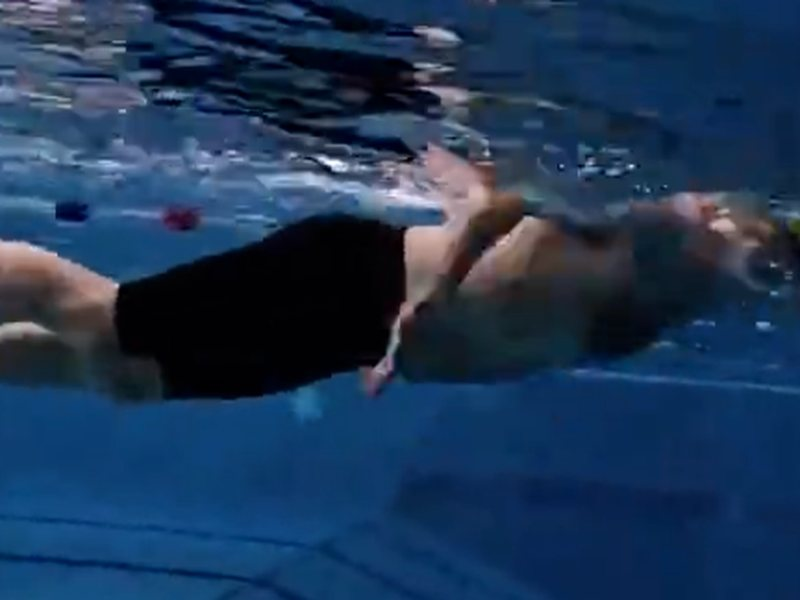
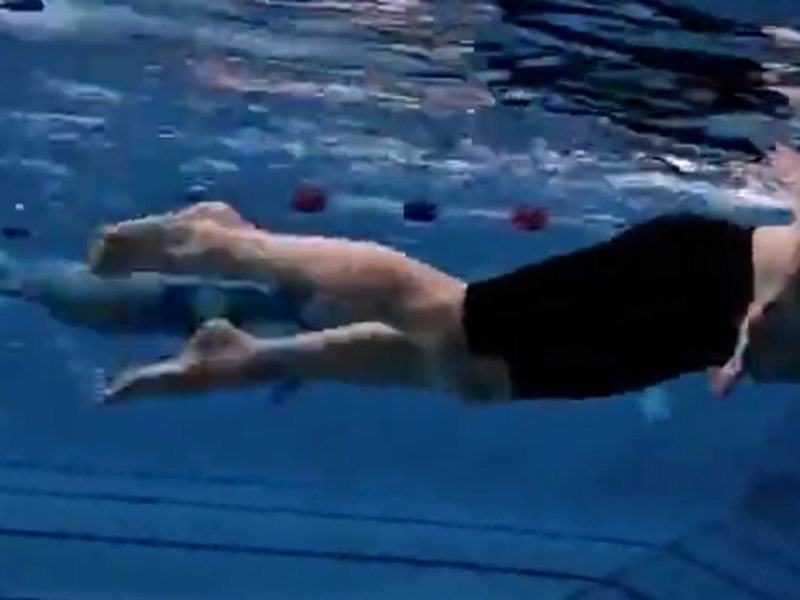
Stills: insteek boven water, beenslag op de benen (v2026.10.27-5)
Claude-Session: https://claude.ai/code/session_01QFLALgp6WLHdknopqTM9pi

diff --git a/index.html b/index.html
@@ -6,7 +6,7 @@
   <title>Ryan Triathlon Coaching – Triathlon-coaching in Rotterdam voor beginners</title>
   <meta name="description" content="Persoonlijke triathlon-coaching vanuit Rotterdam: zwemanalyse met onderwatervideo, trainingsschema&#x27;s en begeleiding naar je 1/8, 1/4, 1/2 of hele triathlon. Gratis kennismaking.">
   <meta name="theme-color" content="#F6FAF7">
-  <meta name="version" content="2026.10.27-4">
+  <meta name="version" content="2026.10.27-5">
   
   <link rel="canonical" href="https://ryantricoaching.nl/">
   <meta property="og:type" content="website">
@@ -25,10 +25,10 @@
   <link rel="preconnect" href="https://fonts.gstatic.com" crossorigin>
   <link href="https://fonts.googleapis.com/css2?family=Sora:wght@700&family=Inter:wght@400;500;600&display=swap" rel="stylesheet" media="print" onload="this.media='all'">
   <noscript><link href="https://fonts.googleapis.com/css2?family=Sora:wght@700&family=Inter:wght@400;500;600&display=swap" rel="stylesheet"></noscript>
-  <link rel="stylesheet" href="assets/css/base.css?v=2026.10.27-4">
-  <link rel="stylesheet" href="assets/css/site.css?v=2026.10.27-4">
+  <link rel="stylesheet" href="assets/css/base.css?v=2026.10.27-5">
+  <link rel="stylesheet" href="assets/css/site.css?v=2026.10.27-5">
   <script type="application/ld+json">{"@context": "https://schema.org", "@graph": [{"@type": "Person", "@id": "https://ryantricoaching.nl/#ryan", "name": "Ryan Douglas", "jobTitle": "Triathlon-coach", "url": "https://ryantricoaching.nl/", "address": {"@type": "PostalAddress", "addressLocality": "Rotterdam", "addressCountry": "NL"}, "memberOf": [{"@type": "SportsTeam", "name": "TVS'90"}, {"@type": "SportsTeam", "name": "CS010"}]}, {"@type": "LocalBusiness", "@id": "https://ryantricoaching.nl/#business", "name": "Ryan Triathlon Coaching", "url": "https://ryantricoaching.nl/", "image": "https://ryantricoaching.nl/assets/og.png", "logo": "https://ryantricoaching.nl/assets/logo/icon-512.png", "description": "Persoonlijke coaching voor beginners en gevorderden: zwemanalyse, trainingsschema's en begeleiding naar je 1/8, 1/4, 1/2 of hele triathlon. Door iemand die zelf vier hele triathlons finishte en het hele jaar buiten zwemt. Vanuit Rotterdam, met jou op de plek waar je traint.", "address": {"@type": "PostalAddress", "addressLocality": "Rotterdam", "addressRegion": "Zuid-Holland", "addressCountry": "NL"}, "areaServed": {"@type": "City", "name": "Rotterdam"}, "priceRange": "Op aanvraag", "founder": {"@id": "https://ryantricoaching.nl/#ryan"}, "makesOffer": [{"@type": "Offer", "itemOffered": {"@type": "Service", "name": "Zwemanalyse", "description": "Onderwateropname van je slag, analyse met ingesproken feedback die je frame voor frame terugkijkt. Je krijgt 3 tot 5 concrete verbeterpunten plus oefeningen."}}, {"@type": "Offer", "itemOffered": {"@type": "Service", "name": "Trainingsschema's fietsen en lopen", "description": "Een schema op maat voor je doel en je beschikbare tijd, in heldere taal, met tempo- en hartslaggrenzen die je zo op je Garmin zet."}}, {"@type": "Offer", "itemOffered": {"@type": "Service", "name": "Begeleiding naar je race", "description": "Van intake tot finish: 1/8, 1/4, 1/2 of hele triathlon. Wekelijks contact via WhatsApp, schema's voor alle drie de onderdelen, wisselzones en racedag."}}]}]}</script>
-  <script type="module" src="assets/js/site.js?v=2026.10.27-4"></script>
+  <script type="module" src="assets/js/site.js?v=2026.10.27-5"></script>
 </head>
 <body class="has-sticky" data-page="home">
   <a class="skip" href="#inhoud">Naar de inhoud</a>
@@ -193,7 +193,7 @@
       </div>
       <div class="footer-bottom">
         <span>© <span id="jaar">2026</span> Ryan Triathlon Coaching · Rotterdam<span id="footer-kvk" hidden> · KvK <span data-k="kvk"></span></span></span>
-        <span><a href="privacy.html">Privacy</a> · <a href="voorwaarden.html">Voorwaarden</a> · <a href="beheer.html" rel="nofollow">Beheer</a> · <span class="versie" id="versie" title="Versie van de website">v2026.10.27-4</span></span>
+        <span><a href="privacy.html">Privacy</a> · <a href="voorwaarden.html">Voorwaarden</a> · <a href="beheer.html" rel="nofollow">Beheer</a> · <span class="versie" id="versie" title="Versie van de website">v2026.10.27-5</span></span>
       </div>
     </div>
   </footer>

diff --git a/diensten.html b/diensten.html
@@ -6,7 +6,7 @@
   <title>Diensten – zwemanalyse, trainingsschema&#x27;s en racebegeleiding | Ryan Triathlon Coaching</title>
   <meta name="description" content="Zwemanalyse met onderwatervideo, trainingsschema&#x27;s voor fietsen en lopen, en complete begeleiding naar je triathlon. Prijzen op aanvraag.">
   <meta name="theme-color" content="#F6FAF7">
-  <meta name="version" content="2026.10.27-4">
+  <meta name="version" content="2026.10.27-5">
   
   <link rel="canonical" href="https://ryantricoaching.nl/diensten.html">
   <meta property="og:type" content="website">
@@ -25,10 +25,10 @@
   <link rel="preconnect" href="https://fonts.gstatic.com" crossorigin>
   <link href="https://fonts.googleapis.com/css2?family=Sora:wght@700&family=Inter:wght@400;500;600&display=swap" rel="stylesheet" media="print" onload="this.media='all'">
   <noscript><link href="https://fonts.googleapis.com/css2?family=Sora:wght@700&family=Inter:wght@400;500;600&display=swap" rel="stylesheet"></noscript>
-  <link rel="stylesheet" href="assets/css/base.css?v=2026.10.27-4">
-  <link rel="stylesheet" href="assets/css/site.css?v=2026.10.27-4">
+  <link rel="stylesheet" href="assets/css/base.css?v=2026.10.27-5">
+  <link rel="stylesheet" href="assets/css/site.css?v=2026.10.27-5">
   <script type="application/ld+json">{"@context": "https://schema.org", "@graph": [{"@type": "Person", "@id": "https://ryantricoaching.nl/#ryan", "name": "Ryan Douglas", "jobTitle": "Triathlon-coach", "url": "https://ryantricoaching.nl/", "address": {"@type": "PostalAddress", "addressLocality": "Rotterdam", "addressCountry": "NL"}, "memberOf": [{"@type": "SportsTeam", "name": "TVS'90"}, {"@type": "SportsTeam", "name": "CS010"}]}, {"@type": "LocalBusiness", "@id": "https://ryantricoaching.nl/#business", "name": "Ryan Triathlon Coaching", "url": "https://ryantricoaching.nl/", "image": "https://ryantricoaching.nl/assets/og.png", "logo": "https://ryantricoaching.nl/assets/logo/icon-512.png", "description": "Persoonlijke coaching voor beginners en gevorderden: zwemanalyse, trainingsschema's en begeleiding naar je 1/8, 1/4, 1/2 of hele triathlon. Door iemand die zelf vier hele triathlons finishte en het hele jaar buiten zwemt. Vanuit Rotterdam, met jou op de plek waar je traint.", "address": {"@type": "PostalAddress", "addressLocality": "Rotterdam", "addressRegion": "Zuid-Holland", "addressCountry": "NL"}, "areaServed": {"@type": "City", "name": "Rotterdam"}, "priceRange": "Op aanvraag", "founder": {"@id": "https://ryantricoaching.nl/#ryan"}, "makesOffer": [{"@type": "Offer", "itemOffered": {"@type": "Service", "name": "Zwemanalyse", "description": "Onderwateropname van je slag, analyse met ingesproken feedback die je frame voor frame terugkijkt. Je krijgt 3 tot 5 concrete verbeterpunten plus oefeningen."}}, {"@type": "Offer", "itemOffered": {"@type": "Service", "name": "Trainingsschema's fietsen en lopen", "description": "Een schema op maat voor je doel en je beschikbare tijd, in heldere taal, met tempo- en hartslaggrenzen die je zo op je Garmin zet."}}, {"@type": "Offer", "itemOffered": {"@type": "Service", "name": "Begeleiding naar je race", "description": "Van intake tot finish: 1/8, 1/4, 1/2 of hele triathlon. Wekelijks contact via WhatsApp, schema's voor alle drie de onderdelen, wisselzones en racedag."}}]}]}</script>
-  <script type="module" src="assets/js/site.js?v=2026.10.27-4"></script>
+  <script type="module" src="assets/js/site.js?v=2026.10.27-5"></script>
 </head>
 <body class="has-sticky" data-page="diensten">
   <a class="skip" href="#inhoud">Naar de inhoud</a>
@@ -125,7 +125,7 @@
       </div>
       <div class="footer-bottom">
         <span>© <span id="jaar">2026</span> Ryan Triathlon Coaching · Rotterdam<span id="footer-kvk" hidden> · KvK <span data-k="kvk"></span></span></span>
-        <span><a href="privacy.html">Privacy</a> · <a href="voorwaarden.html">Voorwaarden</a> · <a href="beheer.html" rel="nofollow">Beheer</a> · <span class="versie" id="versie" title="Versie van de website">v2026.10.27-4</span></span>
+        <span><a href="privacy.html">Privacy</a> · <a href="voorwaarden.html">Voorwaarden</a> · <a href="beheer.html" rel="nofollow">Beheer</a> · <span class="versie" id="versie" title="Versie van de website">v2026.10.27-5</span></span>
       </div>
     </div>
   </footer>

diff --git a/werkwijze.html b/werkwijze.html
@@ -6,7 +6,7 @@
   <title>Werkwijze – van kennismaking tot race | Ryan Triathlon Coaching</title>
   <meta name="description" content="Kennismaking, intake met je Strava- of Garmin-data, een plan voor de eerste vier weken en wekelijks contact via WhatsApp tot de race. Plus: wat ik van jou verwacht.">
   <meta name="theme-color" content="#F6FAF7">
-  <meta name="version" content="2026.10.27-4">
+  <meta name="version" content="2026.10.27-5">
   
   <link rel="canonical" href="https://ryantricoaching.nl/werkwijze.html">
   <meta property="og:type" content="website">
@@ -25,10 +25,10 @@
   <link rel="preconnect" href="https://fonts.gstatic.com" crossorigin>
   <link href="https://fonts.googleapis.com/css2?family=Sora:wght@700&family=Inter:wght@400;500;600&display=swap" rel="stylesheet" media="print" onload="this.media='all'">
   <noscript><link href="https://fonts.googleapis.com/css2?family=Sora:wght@700&family=Inter:wght@400;500;600&display=swap" rel="stylesheet"></noscript>
-  <link rel="stylesheet" href="assets/css/base.css?v=2026.10.27-4">
-  <link rel="stylesheet" href="assets/css/site.css?v=2026.10.27-4">
+  <link rel="stylesheet" href="assets/css/base.css?v=2026.10.27-5">
+  <link rel="stylesheet" href="assets/css/site.css?v=2026.10.27-5">
   <script type="application/ld+json">{"@context": "https://schema.org", "@graph": [{"@type": "Person", "@id": "https://ryantricoaching.nl/#ryan", "name": "Ryan Douglas", "jobTitle": "Triathlon-coach", "url": "https://ryantricoaching.nl/", "address": {"@type": "PostalAddress", "addressLocality": "Rotterdam", "addressCountry": "NL"}, "memberOf": [{"@type": "SportsTeam", "name": "TVS'90"}, {"@type": "SportsTeam", "name": "CS010"}]}, {"@type": "LocalBusiness", "@id": "https://ryantricoaching.nl/#business", "name": "Ryan Triathlon Coaching", "url": "https://ryantricoaching.nl/", "image": "https://ryantricoaching.nl/assets/og.png", "logo": "https://ryantricoaching.nl/assets/logo/icon-512.png", "description": "Persoonlijke coaching voor beginners en gevorderden: zwemanalyse, trainingsschema's en begeleiding naar je 1/8, 1/4, 1/2 of hele triathlon. Door iemand die zelf vier hele triathlons finishte en het hele jaar buiten zwemt. Vanuit Rotterdam, met jou op de plek waar je traint.", "address": {"@type": "PostalAddress", "addressLocality": "Rotterdam", "addressRegion": "Zuid-Holland", "addressCountry": "NL"}, "areaServed": {"@type": "City", "name": "Rotterdam"}, "priceRange": "Op aanvraag", "founder": {"@id": "https://ryantricoaching.nl/#ryan"}, "makesOffer": [{"@type": "Offer", "itemOffered": {"@type": "Service", "name": "Zwemanalyse", "description": "Onderwateropname van je slag, analyse met ingesproken feedback die je frame voor frame terugkijkt. Je krijgt 3 tot 5 concrete verbeterpunten plus oefeningen."}}, {"@type": "Offer", "itemOffered": {"@type": "Service", "name": "Trainingsschema's fietsen en lopen", "description": "Een schema op maat voor je doel en je beschikbare tijd, in heldere taal, met tempo- en hartslaggrenzen die je zo op je Garmin zet."}}, {"@type": "Offer", "itemOffered": {"@type": "Service", "name": "Begeleiding naar je race", "description": "Van intake tot finish: 1/8, 1/4, 1/2 of hele triathlon. Wekelijks contact via WhatsApp, schema's voor alle drie de onderdelen, wisselzones en racedag."}}]}]}</script>
-  <script type="module" src="assets/js/site.js?v=2026.10.27-4"></script>
+  <script type="module" src="assets/js/site.js?v=2026.10.27-5"></script>
 </head>
 <body class="has-sticky" data-page="werkwijze">
   <a class="skip" href="#inhoud">Naar de inhoud</a>
@@ -127,7 +127,7 @@
       </div>
       <div class="footer-bottom">
         <span>© <span id="jaar">2026</span> Ryan Triathlon Coaching · Rotterdam<span id="footer-kvk" hidden> · KvK <span data-k="kvk"></span></span></span>
-        <span><a href="privacy.html">Privacy</a> · <a href="voorwaarden.html">Voorwaarden</a> · <a href="beheer.html" rel="nofollow">Beheer</a> · <span class="versie" id="versie" title="Versie van de website">v2026.10.27-4</span></span>
+        <span><a href="privacy.html">Privacy</a> · <a href="voorwaarden.html">Voorwaarden</a> · <a href="beheer.html" rel="nofollow">Beheer</a> · <span class="versie" id="versie" title="Versie van de website">v2026.10.27-5</span></span>
       </div>
     </div>
   </footer>

diff --git a/contact.html b/contact.html
@@ -6,7 +6,7 @@
   <title>Contact – plan een gratis kennismaking | Ryan Triathlon Coaching</title>
   <meta name="description" content="Neem contact op met Ryan voor een gratis kennismaking van een half uur: via WhatsApp of het formulier. Triathlon-coaching vanuit Rotterdam.">
   <meta name="theme-color" content="#F6FAF7">
-  <meta name="version" content="2026.10.27-4">
+  <meta name="version" content="2026.10.27-5">
   
   <link rel="canonical" href="https://ryantricoaching.nl/contact.html">
   <meta property="og:type" content="website">
@@ -25,10 +25,10 @@
   <link rel="preconnect" href="https://fonts.gstatic.com" crossorigin>
   <link href="https://fonts.googleapis.com/css2?family=Sora:wght@700&family=Inter:wght@400;500;600&display=swap" rel="stylesheet" media="print" onload="this.media='all'">
   <noscript><link href="https://fonts.googleapis.com/css2?family=Sora:wght@700&family=Inter:wght@400;500;600&display=swap" rel="stylesheet"></noscript>
-  <link rel="stylesheet" href="assets/css/base.css?v=2026.10.27-4">
-  <link rel="stylesheet" href="assets/css/site.css?v=2026.10.27-4">
+  <link rel="stylesheet" href="assets/css/base.css?v=2026.10.27-5">
+  <link rel="stylesheet" href="assets/css/site.css?v=2026.10.27-5">
   <script type="application/ld+json">{"@context": "https://schema.org", "@graph": [{"@type": "Person", "@id": "https://ryantricoaching.nl/#ryan", "name": "Ryan Douglas", "jobTitle": "Triathlon-coach", "url": "https://ryantricoaching.nl/", "address": {"@type": "PostalAddress", "addressLocality": "Rotterdam", "addressCountry": "NL"}, "memberOf": [{"@type": "SportsTeam", "name": "TVS'90"}, {"@type": "SportsTeam", "name": "CS010"}]}, {"@type": "LocalBusiness", "@id": "https://ryantricoaching.nl/#business", "name": "Ryan Triathlon Coaching", "url": "https://ryantricoaching.nl/", "image": "https://ryantricoaching.nl/assets/og.png", "logo": "https://ryantricoaching.nl/assets/logo/icon-512.png", "description": "Persoonlijke coaching voor beginners en gevorderden: zwemanalyse, trainingsschema's en begeleiding naar je 1/8, 1/4, 1/2 of hele triathlon. Door iemand die zelf vier hele triathlons finishte en het hele jaar buiten zwemt. Vanuit Rotterdam, met jou op de plek waar je traint.", "address": {"@type": "PostalAddress", "addressLocality": "Rotterdam", "addressRegion": "Zuid-Holland", "addressCountry": "NL"}, "areaServed": {"@type": "City", "name": "Rotterdam"}, "priceRange": "Op aanvraag", "founder": {"@id": "https://ryantricoaching.nl/#ryan"}, "makesOffer": [{"@type": "Offer", "itemOffered": {"@type": "Service", "name": "Zwemanalyse", "description": "Onderwateropname van je slag, analyse met ingesproken feedback die je frame voor frame terugkijkt. Je krijgt 3 tot 5 concrete verbeterpunten plus oefeningen."}}, {"@type": "Offer", "itemOffered": {"@type": "Service", "name": "Trainingsschema's fietsen en lopen", "description": "Een schema op maat voor je doel en je beschikbare tijd, in heldere taal, met tempo- en hartslaggrenzen die je zo op je Garmin zet."}}, {"@type": "Offer", "itemOffered": {"@type": "Service", "name": "Begeleiding naar je race", "description": "Van intake tot finish: 1/8, 1/4, 1/2 of hele triathlon. Wekelijks contact via WhatsApp, schema's voor alle drie de onderdelen, wisselzones en racedag."}}]}]}</script>
-  <script type="module" src="assets/js/site.js?v=2026.10.27-4"></script>
+  <script type="module" src="assets/js/site.js?v=2026.10.27-5"></script>
 </head>
 <body class="has-sticky" data-page="contact">
   <a class="skip" href="#inhoud">Naar de inhoud</a>
@@ -152,7 +152,7 @@
       </div>
       <div class="footer-bottom">
         <span>© <span id="jaar">2026</span> Ryan Triathlon Coaching · Rotterdam<span id="footer-kvk" hidden> · KvK <span data-k="kvk"></span></span></span>
-        <span><a href="privacy.html">Privacy</a> · <a href="voorwaarden.html">Voorwaarden</a> · <a href="beheer.html" rel="nofollow">Beheer</a> · <span class="versie" id="versie" title="Versie van de website">v2026.10.27-4</span></span>
+        <span><a href="privacy.html">Privacy</a> · <a href="voorwaarden.html">Voorwaarden</a> · <a href="beheer.html" rel="nofollow">Beheer</a> · <span class="versie" id="versie" title="Versie van de website">v2026.10.27-5</span></span>
       </div>
     </div>
   </footer>

diff --git a/privacy.html b/privacy.html
@@ -6,7 +6,7 @@
   <title>Privacyverklaring | Ryan Triathlon Coaching</title>
   <meta name="description" content="Hoe Ryan Triathlon Coaching omgaat met je gegevens: alleen wat nodig is om contact te houden en je te coachen, geen cookies, geen doorverkoop.">
   <meta name="theme-color" content="#F6FAF7">
-  <meta name="version" content="2026.10.27-4">
+  <meta name="version" content="2026.10.27-5">
   
   <link rel="canonical" href="https://ryantricoaching.nl/privacy.html">
   <meta property="og:type" content="website">
@@ -25,10 +25,10 @@
   <link rel="preconnect" href="https://fonts.gstatic.com" crossorigin>
   <link href="https://fonts.googleapis.com/css2?family=Sora:wght@700&family=Inter:wght@400;500;600&display=swap" rel="stylesheet" media="print" onload="this.media='all'">
   <noscript><link href="https://fonts.googleapis.com/css2?family=Sora:wght@700&family=Inter:wght@400;500;600&display=swap" rel="stylesheet"></noscript>
-  <link rel="stylesheet" href="assets/css/base.css?v=2026.10.27-4">
-  <link rel="stylesheet" href="assets/css/site.css?v=2026.10.27-4">
+  <link rel="stylesheet" href="assets/css/base.css?v=2026.10.27-5">
+  <link rel="stylesheet" href="assets/css/site.css?v=2026.10.27-5">
   <script type="application/ld+json">{"@context": "https://schema.org", "@graph": [{"@type": "Person", "@id": "https://ryantricoaching.nl/#ryan", "name": "Ryan Douglas", "jobTitle": "Triathlon-coach", "url": "https://ryantricoaching.nl/", "address": {"@type": "PostalAddress", "addressLocality": "Rotterdam", "addressCountry": "NL"}, "memberOf": [{"@type": "SportsTeam", "name": "TVS'90"}, {"@type": "SportsTeam", "name": "CS010"}]}, {"@type": "LocalBusiness", "@id": "https://ryantricoaching.nl/#business", "name": "Ryan Triathlon Coaching", "url": "https://ryantricoaching.nl/", "image": "https://ryantricoaching.nl/assets/og.png", "logo": "https://ryantricoaching.nl/assets/logo/icon-512.png", "description": "Persoonlijke coaching voor beginners en gevorderden: zwemanalyse, trainingsschema's en begeleiding naar je 1/8, 1/4, 1/2 of hele triathlon. Door iemand die zelf vier hele triathlons finishte en het hele jaar buiten zwemt. Vanuit Rotterdam, met jou op de plek waar je traint.", "address": {"@type": "PostalAddress", "addressLocality": "Rotterdam", "addressRegion": "Zuid-Holland", "addressCountry": "NL"}, "areaServed": {"@type": "City", "name": "Rotterdam"}, "priceRange": "Op aanvraag", "founder": {"@id": "https://ryantricoaching.nl/#ryan"}, "makesOffer": [{"@type": "Offer", "itemOffered": {"@type": "Service", "name": "Zwemanalyse", "description": "Onderwateropname van je slag, analyse met ingesproken feedback die je frame voor frame terugkijkt. Je krijgt 3 tot 5 concrete verbeterpunten plus oefeningen."}}, {"@type": "Offer", "itemOffered": {"@type": "Service", "name": "Trainingsschema's fietsen en lopen", "description": "Een schema op maat voor je doel en je beschikbare tijd, in heldere taal, met tempo- en hartslaggrenzen die je zo op je Garmin zet."}}, {"@type": "Offer", "itemOffered": {"@type": "Service", "name": "Begeleiding naar je race", "description": "Van intake tot finish: 1/8, 1/4, 1/2 of hele triathlon. Wekelijks contact via WhatsApp, schema's voor alle drie de onderdelen, wisselzones en racedag."}}]}]}</script>
-  <script type="module" src="assets/js/site.js?v=2026.10.27-4"></script>
+  <script type="module" src="assets/js/site.js?v=2026.10.27-5"></script>
 </head>
 <body class="has-sticky" data-page="privacy">
   <a class="skip" href="#inhoud">Naar de inhoud</a>
@@ -108,7 +108,7 @@
       </div>
       <div class="footer-bottom">
         <span>© <span id="jaar">2026</span> Ryan Triathlon Coaching · Rotterdam<span id="footer-kvk" hidden> · KvK <span data-k="kvk"></span></span></span>
-        <span><a href="privacy.html">Privacy</a> · <a href="voorwaarden.html">Voorwaarden</a> · <a href="beheer.html" rel="nofollow">Beheer</a> · <span class="versie" id="versie" title="Versie van de website">v2026.10.27-4</span></span>
+        <span><a href="privacy.html">Privacy</a> · <a href="voorwaarden.html">Voorwaarden</a> · <a href="beheer.html" rel="nofollow">Beheer</a> · <span class="versie" id="versie" title="Versie van de website">v2026.10.27-5</span></span>
       </div>
     </div>
   </footer>

diff --git a/ervaringen.html b/ervaringen.html
@@ -6,7 +6,7 @@
   <title>Ervaringen van atleten | Ryan Triathlon Coaching</title>
   <meta name="description" content="Wat atleten zeggen over de coaching van Ryan Douglas: zwemanalyse, trainingsschema&#x27;s en begeleiding naar hun triathlon.">
   <meta name="theme-color" content="#F6FAF7">
-  <meta name="version" content="2026.10.27-4">
+  <meta name="version" content="2026.10.27-5">
   
   <link rel="canonical" href="https://ryantricoaching.nl/ervaringen.html">
   <meta property="og:type" content="website">
@@ -25,10 +25,10 @@
   <link rel="preconnect" href="https://fonts.gstatic.com" crossorigin>
   <link href="https://fonts.googleapis.com/css2?family=Sora:wght@700&family=Inter:wght@400;500;600&display=swap" rel="stylesheet" media="print" onload="this.media='all'">
   <noscript><link href="https://fonts.googleapis.com/css2?family=Sora:wght@700&family=Inter:wght@400;500;600&display=swap" rel="stylesheet"></noscript>
-  <link rel="stylesheet" href="assets/css/base.css?v=2026.10.27-4">
-  <link rel="stylesheet" href="assets/css/site.css?v=2026.10.27-4">
+  <link rel="stylesheet" href="assets/css/base.css?v=2026.10.27-5">
+  <link rel="stylesheet" href="assets/css/site.css?v=2026.10.27-5">
   <script type="application/ld+json">{"@context": "https://schema.org", "@graph": [{"@type": "Person", "@id": "https://ryantricoaching.nl/#ryan", "name": "Ryan Douglas", "jobTitle": "Triathlon-coach", "url": "https://ryantricoaching.nl/", "address": {"@type": "PostalAddress", "addressLocality": "Rotterdam", "addressCountry": "NL"}, "memberOf": [{"@type": "SportsTeam", "name": "TVS'90"}, {"@type": "SportsTeam", "name": "CS010"}]}, {"@type": "LocalBusiness", "@id": "https://ryantricoaching.nl/#business", "name": "Ryan Triathlon Coaching", "url": "https://ryantricoaching.nl/", "image": "https://ryantricoaching.nl/assets/og.png", "logo": "https://ryantricoaching.nl/assets/logo/icon-512.png", "description": "Persoonlijke coaching voor beginners en gevorderden: zwemanalyse, trainingsschema's en begeleiding naar je 1/8, 1/4, 1/2 of hele triathlon. Door iemand die zelf vier hele triathlons finishte en het hele jaar buiten zwemt. Vanuit Rotterdam, met jou op de plek waar je traint.", "address": {"@type": "PostalAddress", "addressLocality": "Rotterdam", "addressRegion": "Zuid-Holland", "addressCountry": "NL"}, "areaServed": {"@type": "City", "name": "Rotterdam"}, "priceRange": "Op aanvraag", "founder": {"@id": "https://ryantricoaching.nl/#ryan"}, "makesOffer": [{"@type": "Offer", "itemOffered": {"@type": "Service", "name": "Zwemanalyse", "description": "Onderwateropname van je slag, analyse met ingesproken feedback die je frame voor frame terugkijkt. Je krijgt 3 tot 5 concrete verbeterpunten plus oefeningen."}}, {"@type": "Offer", "itemOffered": {"@type": "Service", "name": "Trainingsschema's fietsen en lopen", "description": "Een schema op maat voor je doel en je beschikbare tijd, in heldere taal, met tempo- en hartslaggrenzen die je zo op je Garmin zet."}}, {"@type": "Offer", "itemOffered": {"@type": "Service", "name": "Begeleiding naar je race", "description": "Van intake tot finish: 1/8, 1/4, 1/2 of hele triathlon. Wekelijks contact via WhatsApp, schema's voor alle drie de onderdelen, wisselzones en racedag."}}]}]}</script>
-  <script type="module" src="assets/js/site.js?v=2026.10.27-4"></script>
+  <script type="module" src="assets/js/site.js?v=2026.10.27-5"></script>
 </head>
 <body class="has-sticky" data-page="ervaringen">
   <a class="skip" href="#inhoud">Naar de inhoud</a>
@@ -110,7 +110,7 @@
       </div>
       <div class="footer-bottom">
         <span>© <span id="jaar">2026</span> Ryan Triathlon Coaching · Rotterdam<span id="footer-kvk" hidden> · KvK <span data-k="kvk"></span></span></span>
-        <span><a href="privacy.html">Privacy</a> · <a href="voorwaarden.html">Voorwaarden</a> · <a href="beheer.html" rel="nofollow">Beheer</a> · <span class="versie" id="versie" title="Versie van de website">v2026.10.27-4</span></span>
+        <span><a href="privacy.html">Privacy</a> · <a href="voorwaarden.html">Voorwaarden</a> · <a href="beheer.html" rel="nofollow">Beheer</a> · <span class="versie" id="versie" title="Versie van de website">v2026.10.27-5</span></span>
       </div>
     </div>
   </footer>

diff --git a/voorwaarden.html b/voorwaarden.html
@@ -6,7 +6,7 @@
   <title>Voorwaarden | Ryan Triathlon Coaching</title>
   <meta name="description" content="De afspraken bij coaching door Ryan Triathlon Coaching: eigen verantwoordelijkheid, opzeggen, betaling en aansprakelijkheid.">
   <meta name="theme-color" content="#F6FAF7">
-  <meta name="version" content="2026.10.27-4">
+  <meta name="version" content="2026.10.27-5">
   
   <link rel="canonical" href="https://ryantricoaching.nl/voorwaarden.html">
   <meta property="og:type" content="website">
@@ -25,10 +25,10 @@
   <link rel="preconnect" href="https://fonts.gstatic.com" crossorigin>
   <link href="https://fonts.googleapis.com/css2?family=Sora:wght@700&family=Inter:wght@400;500;600&display=swap" rel="stylesheet" media="print" onload="this.media='all'">
   <noscript><link href="https://fonts.googleapis.com/css2?family=Sora:wght@700&family=Inter:wght@400;500;600&display=swap" rel="stylesheet"></noscript>
-  <link rel="stylesheet" href="assets/css/base.css?v=2026.10.27-4">
-  <link rel="stylesheet" href="assets/css/site.css?v=2026.10.27-4">
+  <link rel="stylesheet" href="assets/css/base.css?v=2026.10.27-5">
+  <link rel="stylesheet" href="assets/css/site.css?v=2026.10.27-5">
   <script type="application/ld+json">{"@context": "https://schema.org", "@graph": [{"@type": "Person", "@id": "https://ryantricoaching.nl/#ryan", "name": "Ryan Douglas", "jobTitle": "Triathlon-coach", "url": "https://ryantricoaching.nl/", "address": {"@type": "PostalAddress", "addressLocality": "Rotterdam", "addressCountry": "NL"}, "memberOf": [{"@type": "SportsTeam", "name": "TVS'90"}, {"@type": "SportsTeam", "name": "CS010"}]}, {"@type": "LocalBusiness", "@id": "https://ryantricoaching.nl/#business", "name": "Ryan Triathlon Coaching", "url": "https://ryantricoaching.nl/", "image": "https://ryantricoaching.nl/assets/og.png", "logo": "https://ryantricoaching.nl/assets/logo/icon-512.png", "description": "Persoonlijke coaching voor beginners en gevorderden: zwemanalyse, trainingsschema's en begeleiding naar je 1/8, 1/4, 1/2 of hele triathlon. Door iemand die zelf vier hele triathlons finishte en het hele jaar buiten zwemt. Vanuit Rotterdam, met jou op de plek waar je traint.", "address": {"@type": "PostalAddress", "addressLocality": "Rotterdam", "addressRegion": "Zuid-Holland", "addressCountry": "NL"}, "areaServed": {"@type": "City", "name": "Rotterdam"}, "priceRange": "Op aanvraag", "founder": {"@id": "https://ryantricoaching.nl/#ryan"}, "makesOffer": [{"@type": "Offer", "itemOffered": {"@type": "Service", "name": "Zwemanalyse", "description": "Onderwateropname van je slag, analyse met ingesproken feedback die je frame voor frame terugkijkt. Je krijgt 3 tot 5 concrete verbeterpunten plus oefeningen."}}, {"@type": "Offer", "itemOffered": {"@type": "Service", "name": "Trainingsschema's fietsen en lopen", "description": "Een schema op maat voor je doel en je beschikbare tijd, in heldere taal, met tempo- en hartslaggrenzen die je zo op je Garmin zet."}}, {"@type": "Offer", "itemOffered": {"@type": "Service", "name": "Begeleiding naar je race", "description": "Van intake tot finish: 1/8, 1/4, 1/2 of hele triathlon. Wekelijks contact via WhatsApp, schema's voor alle drie de onderdelen, wisselzones en racedag."}}]}]}</script>
-  <script type="module" src="assets/js/site.js?v=2026.10.27-4"></script>
+  <script type="module" src="assets/js/site.js?v=2026.10.27-5"></script>
 </head>
 <body class="has-sticky" data-page="voorwaarden">
   <a class="skip" href="#inhoud">Naar de inhoud</a>
@@ -108,7 +108,7 @@
       </div>
       <div class="footer-bottom">
         <span>© <span id="jaar">2026</span> Ryan Triathlon Coaching · Rotterdam<span id="footer-kvk" hidden> · KvK <span data-k="kvk"></span></span></span>
-        <span><a href="privacy.html">Privacy</a> · <a href="voorwaarden.html">Voorwaarden</a> · <a href="beheer.html" rel="nofollow">Beheer</a> · <span class="versie" id="versie" title="Versie van de website">v2026.10.27-4</span></span>
+        <span><a href="privacy.html">Privacy</a> · <a href="voorwaarden.html">Voorwaarden</a> · <a href="beheer.html" rel="nofollow">Beheer</a> · <span class="versie" id="versie" title="Versie van de website">v2026.10.27-5</span></span>
       </div>
     </div>
   </footer>

diff --git a/bedankt.html b/bedankt.html
@@ -6,7 +6,7 @@
   <title>Bedankt voor je bericht | Ryan Triathlon Coaching</title>
   <meta name="description" content="Je bericht is verstuurd. Ryan neemt binnen een dag contact met je op.">
   <meta name="theme-color" content="#F6FAF7">
-  <meta name="version" content="2026.10.27-4">
+  <meta name="version" content="2026.10.27-5">
   <meta name="robots" content="noindex, nofollow">
   <link rel="canonical" href="https://ryantricoaching.nl/bedankt.html">
   <meta property="og:type" content="website">
@@ -25,10 +25,10 @@
   <link rel="preconnect" href="https://fonts.gstatic.com" crossorigin>
   <link href="https://fonts.googleapis.com/css2?family=Sora:wght@700&family=Inter:wght@400;500;600&display=swap" rel="stylesheet" media="print" onload="this.media='all'">
   <noscript><link href="https://fonts.googleapis.com/css2?family=Sora:wght@700&family=Inter:wght@400;500;600&display=swap" rel="stylesheet"></noscript>
-  <link rel="stylesheet" href="assets/css/base.css?v=2026.10.27-4">
-  <link rel="stylesheet" href="assets/css/site.css?v=2026.10.27-4">
+  <link rel="stylesheet" href="assets/css/base.css?v=2026.10.27-5">
+  <link rel="stylesheet" href="assets/css/site.css?v=2026.10.27-5">
   <script type="application/ld+json">{"@context": "https://schema.org", "@graph": [{"@type": "Person", "@id": "https://ryantricoaching.nl/#ryan", "name": "Ryan Douglas", "jobTitle": "Triathlon-coach", "url": "https://ryantricoaching.nl/", "address": {"@type": "PostalAddress", "addressLocality": "Rotterdam", "addressCountry": "NL"}, "memberOf": [{"@type": "SportsTeam", "name": "TVS'90"}, {"@type": "SportsTeam", "name": "CS010"}]}, {"@type": "LocalBusiness", "@id": "https://ryantricoaching.nl/#business", "name": "Ryan Triathlon Coaching", "url": "https://ryantricoaching.nl/", "image": "https://ryantricoaching.nl/assets/og.png", "logo": "https://ryantricoaching.nl/assets/logo/icon-512.png", "description": "Persoonlijke coaching voor beginners en gevorderden: zwemanalyse, trainingsschema's en begeleiding naar je 1/8, 1/4, 1/2 of hele triathlon. Door iemand die zelf vier hele triathlons finishte en het hele jaar buiten zwemt. Vanuit Rotterdam, met jou op de plek waar je traint.", "address": {"@type": "PostalAddress", "addressLocality": "Rotterdam", "addressRegion": "Zuid-Holland", "addressCountry": "NL"}, "areaServed": {"@type": "City", "name": "Rotterdam"}, "priceRange": "Op aanvraag", "founder": {"@id": "https://ryantricoaching.nl/#ryan"}, "makesOffer": [{"@type": "Offer", "itemOffered": {"@type": "Service", "name": "Zwemanalyse", "description": "Onderwateropname van je slag, analyse met ingesproken feedback die je frame voor frame terugkijkt. Je krijgt 3 tot 5 concrete verbeterpunten plus oefeningen."}}, {"@type": "Offer", "itemOffered": {"@type": "Service", "name": "Trainingsschema's fietsen en lopen", "description": "Een schema op maat voor je doel en je beschikbare tijd, in heldere taal, met tempo- en hartslaggrenzen die je zo op je Garmin zet."}}, {"@type": "Offer", "itemOffered": {"@type": "Service", "name": "Begeleiding naar je race", "description": "Van intake tot finish: 1/8, 1/4, 1/2 of hele triathlon. Wekelijks contact via WhatsApp, schema's voor alle drie de onderdelen, wisselzones en racedag."}}]}]}</script>
-  <script type="module" src="assets/js/site.js?v=2026.10.27-4"></script>
+  <script type="module" src="assets/js/site.js?v=2026.10.27-5"></script>
 </head>
 <body class="has-sticky" data-page="bedankt">
   <a class="skip" href="#inhoud">Naar de inhoud</a>
@@ -93,7 +93,7 @@
       </div>
       <div class="footer-bottom">
         <span>© <span id="jaar">2026</span> Ryan Triathlon Coaching · Rotterdam<span id="footer-kvk" hidden> · KvK <span data-k="kvk"></span></span></span>
-        <span><a href="privacy.html">Privacy</a> · <a href="voorwaarden.html">Voorwaarden</a> · <a href="beheer.html" rel="nofollow">Beheer</a> · <span class="versie" id="versie" title="Versie van de website">v2026.10.27-4</span></span>
+        <span><a href="privacy.html">Privacy</a> · <a href="voorwaarden.html">Voorwaarden</a> · <a href="beheer.html" rel="nofollow">Beheer</a> · <span class="versie" id="versie" title="Versie van de website">v2026.10.27-5</span></span>
       </div>
     </div>
   </footer>

diff --git a/race.html b/race.html
@@ -6,7 +6,7 @@
   <title>Begeleiding naar je triathlon: 1/8, 1/4, 1/2 of hele | Ryan Triathlon Coaching</title>
   <meta name="description" content="Complete begeleiding naar je triathlon vanuit Rotterdam: intake, trainingsplan voor zwemmen, fietsen en lopen, wekelijks contact via WhatsApp en een raceplan. Voorbeeldtijdlijn van 12 tot 20 weken.">
   <meta name="theme-color" content="#F6FAF7">
-  <meta name="version" content="2026.10.27-4">
+  <meta name="version" content="2026.10.27-5">
   
   <link rel="canonical" href="https://ryantricoaching.nl/race.html">
   <meta property="og:type" content="website">
@@ -25,10 +25,10 @@
   <link rel="preconnect" href="https://fonts.gstatic.com" crossorigin>
   <link href="https://fonts.googleapis.com/css2?family=Sora:wght@700&family=Inter:wght@400;500;600&display=swap" rel="stylesheet" media="print" onload="this.media='all'">
   <noscript><link href="https://fonts.googleapis.com/css2?family=Sora:wght@700&family=Inter:wght@400;500;600&display=swap" rel="stylesheet"></noscript>
-  <link rel="stylesheet" href="assets/css/base.css?v=2026.10.27-4">
-  <link rel="stylesheet" href="assets/css/site.css?v=2026.10.27-4">
+  <link rel="stylesheet" href="assets/css/base.css?v=2026.10.27-5">
+  <link rel="stylesheet" href="assets/css/site.css?v=2026.10.27-5">
   <script type="application/ld+json">{"@context": "https://schema.org", "@type": "Service", "name": "Begeleiding naar je race", "description": "Van intake tot finish: 1/8, 1/4, 1/2 of hele triathlon. Wekelijks contact via WhatsApp, schema's voor alle drie de onderdelen, wisselzones en racedag.", "provider": {"@id": "https://ryantricoaching.nl/#business"}, "areaServed": "Rotterdam", "url": "https://ryantricoaching.nl/race.html"}</script>
-  <script type="module" src="assets/js/site.js?v=2026.10.27-4"></script>
+  <script type="module" src="assets/js/site.js?v=2026.10.27-5"></script>
 </head>
 <body class="has-sticky" data-page="race">
   <a class="skip" href="#inhoud">Naar de inhoud</a>
@@ -136,7 +136,7 @@
       </div>
       <div class="footer-bottom">
         <span>© <span id="jaar">2026</span> Ryan Triathlon Coaching · Rotterdam<span id="footer-kvk" hidden> · KvK <span data-k="kvk"></span></span></span>
-        <span><a href="privacy.html">Privacy</a> · <a href="voorwaarden.html">Voorwaarden</a> · <a href="beheer.html" rel="nofollow">Beheer</a> · <span class="versie" id="versie" title="Versie van de website">v2026.10.27-4</span></span>
+        <span><a href="privacy.html">Privacy</a> · <a href="voorwaarden.html">Voorwaarden</a> · <a href="beheer.html" rel="nofollow">Beheer</a> · <span class="versie" id="versie" title="Versie van de website">v2026.10.27-5</span></span>
       </div>
     </div>
   </footer>

diff --git a/zwemanalyse.html b/zwemanalyse.html
@@ -6,7 +6,7 @@
   <title>Zwemanalyse met onderwatervideo in Rotterdam | Ryan Triathlon Coaching</title>
   <meta name="description" content="Onderwateropname van je zwemslag, analyse met ingesproken feedback, frame voor frame terug te kijken en 3 tot 5 concrete verbeterpunten. Voor triatleten en open-waterzwemmers.">
   <meta name="theme-color" content="#F6FAF7">
-  <meta name="version" content="2026.10.27-4">
+  <meta name="version" content="2026.10.27-5">
   
   <link rel="canonical" href="https://ryantricoaching.nl/zwemanalyse.html">
   <meta property="og:type" content="website">
@@ -25,10 +25,10 @@
   <link rel="preconnect" href="https://fonts.gstatic.com" crossorigin>
   <link href="https://fonts.googleapis.com/css2?family=Sora:wght@700&family=Inter:wght@400;500;600&display=swap" rel="stylesheet" media="print" onload="this.media='all'">
   <noscript><link href="https://fonts.googleapis.com/css2?family=Sora:wght@700&family=Inter:wght@400;500;600&display=swap" rel="stylesheet"></noscript>
-  <link rel="stylesheet" href="assets/css/base.css?v=2026.10.27-4">
-  <link rel="stylesheet" href="assets/css/site.css?v=2026.10.27-4">
+  <link rel="stylesheet" href="assets/css/base.css?v=2026.10.27-5">
+  <link rel="stylesheet" href="assets/css/site.css?v=2026.10.27-5">
   <script type="application/ld+json">{"@context": "https://schema.org", "@type": "Service", "name": "Zwemanalyse", "description": "Onderwateropname van je slag, analyse met ingesproken feedback die je frame voor frame terugkijkt. Je krijgt 3 tot 5 concrete verbeterpunten plus oefeningen.", "provider": {"@id": "https://ryantricoaching.nl/#business"}, "areaServed": "Rotterdam", "url": "https://ryantricoaching.nl/zwemanalyse.html"}</script>
-  <script type="module" src="assets/js/site.js?v=2026.10.27-4"></script>
+  <script type="module" src="assets/js/site.js?v=2026.10.27-5"></script>
 </head>
 <body class="has-sticky" data-page="zwemanalyse">
   <a class="skip" href="#inhoud">Naar de inhoud</a>
@@ -187,7 +187,7 @@
       </div>
       <div class="footer-bottom">
         <span>© <span id="jaar">2026</span> Ryan Triathlon Coaching · Rotterdam<span id="footer-kvk" hidden> · KvK <span data-k="kvk"></span></span></span>
-        <span><a href="privacy.html">Privacy</a> · <a href="voorwaarden.html">Voorwaarden</a> · <a href="beheer.html" rel="nofollow">Beheer</a> · <span class="versie" id="versie" title="Versie van de website">v2026.10.27-4</span></span>
+        <span><a href="privacy.html">Privacy</a> · <a href="voorwaarden.html">Voorwaarden</a> · <a href="beheer.html" rel="nofollow">Beheer</a> · <span class="versie" id="versie" title="Versie van de website">v2026.10.27-5</span></span>
       </div>
     </div>
   </footer>

diff --git a/over.html b/over.html
@@ -6,7 +6,7 @@
   <title>Over Ryan Douglas – triathlon-coach uit Rotterdam | Ryan Triathlon Coaching</title>
   <meta name="description" content="Docent informatica en projectleider die triathlon oppakte, zelf leerde zwemmen, fietsen en lopen met data en techniek, en nu een klein aantal atleten persoonlijk coacht.">
   <meta name="theme-color" content="#F6FAF7">
-  <meta name="version" content="2026.10.27-4">
+  <meta name="version" content="2026.10.27-5">
   
   <link rel="canonical" href="https://ryantricoaching.nl/over.html">
   <meta property="og:type" content="website">
@@ -25,10 +25,10 @@
   <link rel="preconnect" href="https://fonts.gstatic.com" crossorigin>
   <link href="https://fonts.googleapis.com/css2?family=Sora:wght@700&family=Inter:wght@400;500;600&display=swap" rel="stylesheet" media="print" onload="this.media='all'">
   <noscript><link href="https://fonts.googleapis.com/css2?family=Sora:wght@700&family=Inter:wght@400;500;600&display=swap" rel="stylesheet"></noscript>
-  <link rel="stylesheet" href="assets/css/base.css?v=2026.10.27-4">
-  <link rel="stylesheet" href="assets/css/site.css?v=2026.10.27-4">
+  <link rel="stylesheet" href="assets/css/base.css?v=2026.10.27-5">
+  <link rel="stylesheet" href="assets/css/site.css?v=2026.10.27-5">
   <script type="application/ld+json">{"@context": "https://schema.org", "@type": "Person", "@id": "https://ryantricoaching.nl/#ryan", "name": "Ryan Douglas", "jobTitle": "Triathlon-coach", "url": "https://ryantricoaching.nl/", "address": {"@type": "PostalAddress", "addressLocality": "Rotterdam", "addressCountry": "NL"}, "memberOf": [{"@type": "SportsTeam", "name": "TVS'90"}, {"@type": "SportsTeam", "name": "CS010"}]}</script>
-  <script type="module" src="assets/js/site.js?v=2026.10.27-4"></script>
+  <script type="module" src="assets/js/site.js?v=2026.10.27-5"></script>
 </head>
 <body class="has-sticky" data-page="over">
   <a class="skip" href="#inhoud">Naar de inhoud</a>
@@ -125,7 +125,7 @@
       </div>
       <div class="footer-bottom">
         <span>© <span id="jaar">2026</span> Ryan Triathlon Coaching · Rotterdam<span id="footer-kvk" hidden> · KvK <span data-k="kvk"></span></span></span>
-        <span><a href="privacy.html">Privacy</a> · <a href="voorwaarden.html">Voorwaarden</a> · <a href="beheer.html" rel="nofollow">Beheer</a> · <span class="versie" id="versie" title="Versie van de website">v2026.10.27-4</span></span>
+        <span><a href="privacy.html">Privacy</a> · <a href="voorwaarden.html">Voorwaarden</a> · <a href="beheer.html" rel="nofollow">Beheer</a> · <span class="versie" id="versie" title="Versie van de website">v2026.10.27-5</span></span>
       </div>
     </div>
   </footer>
